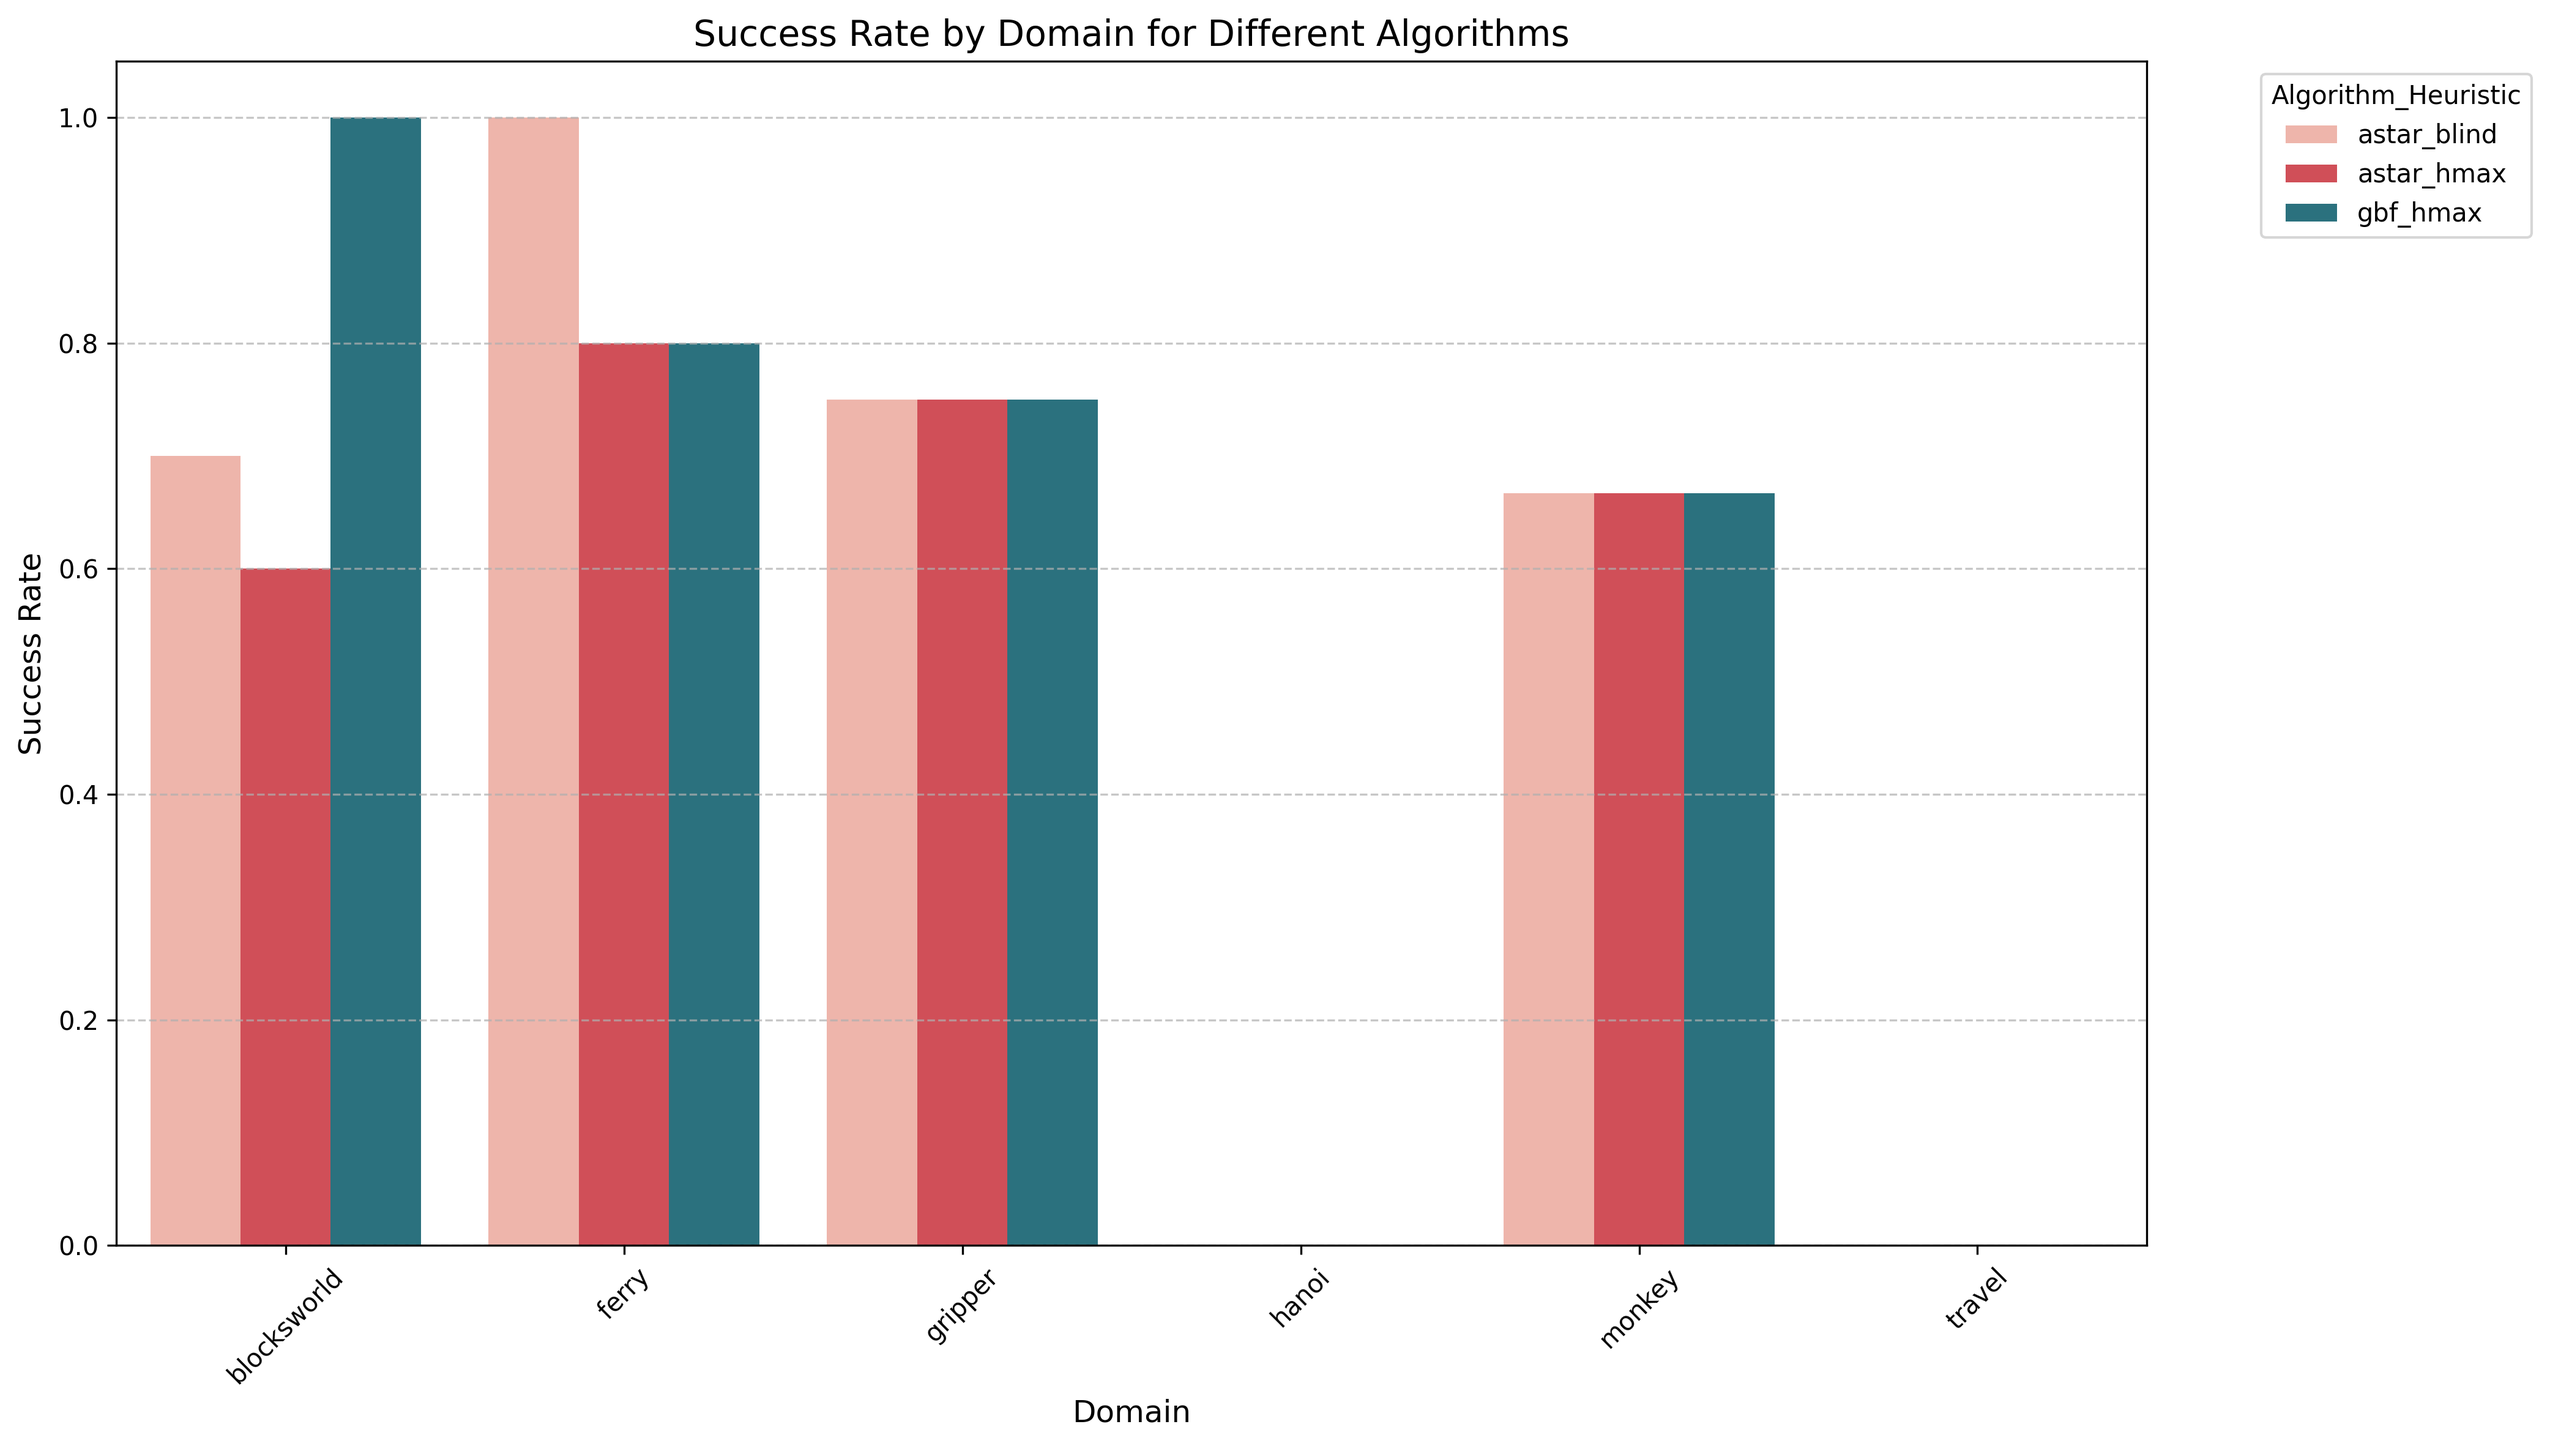
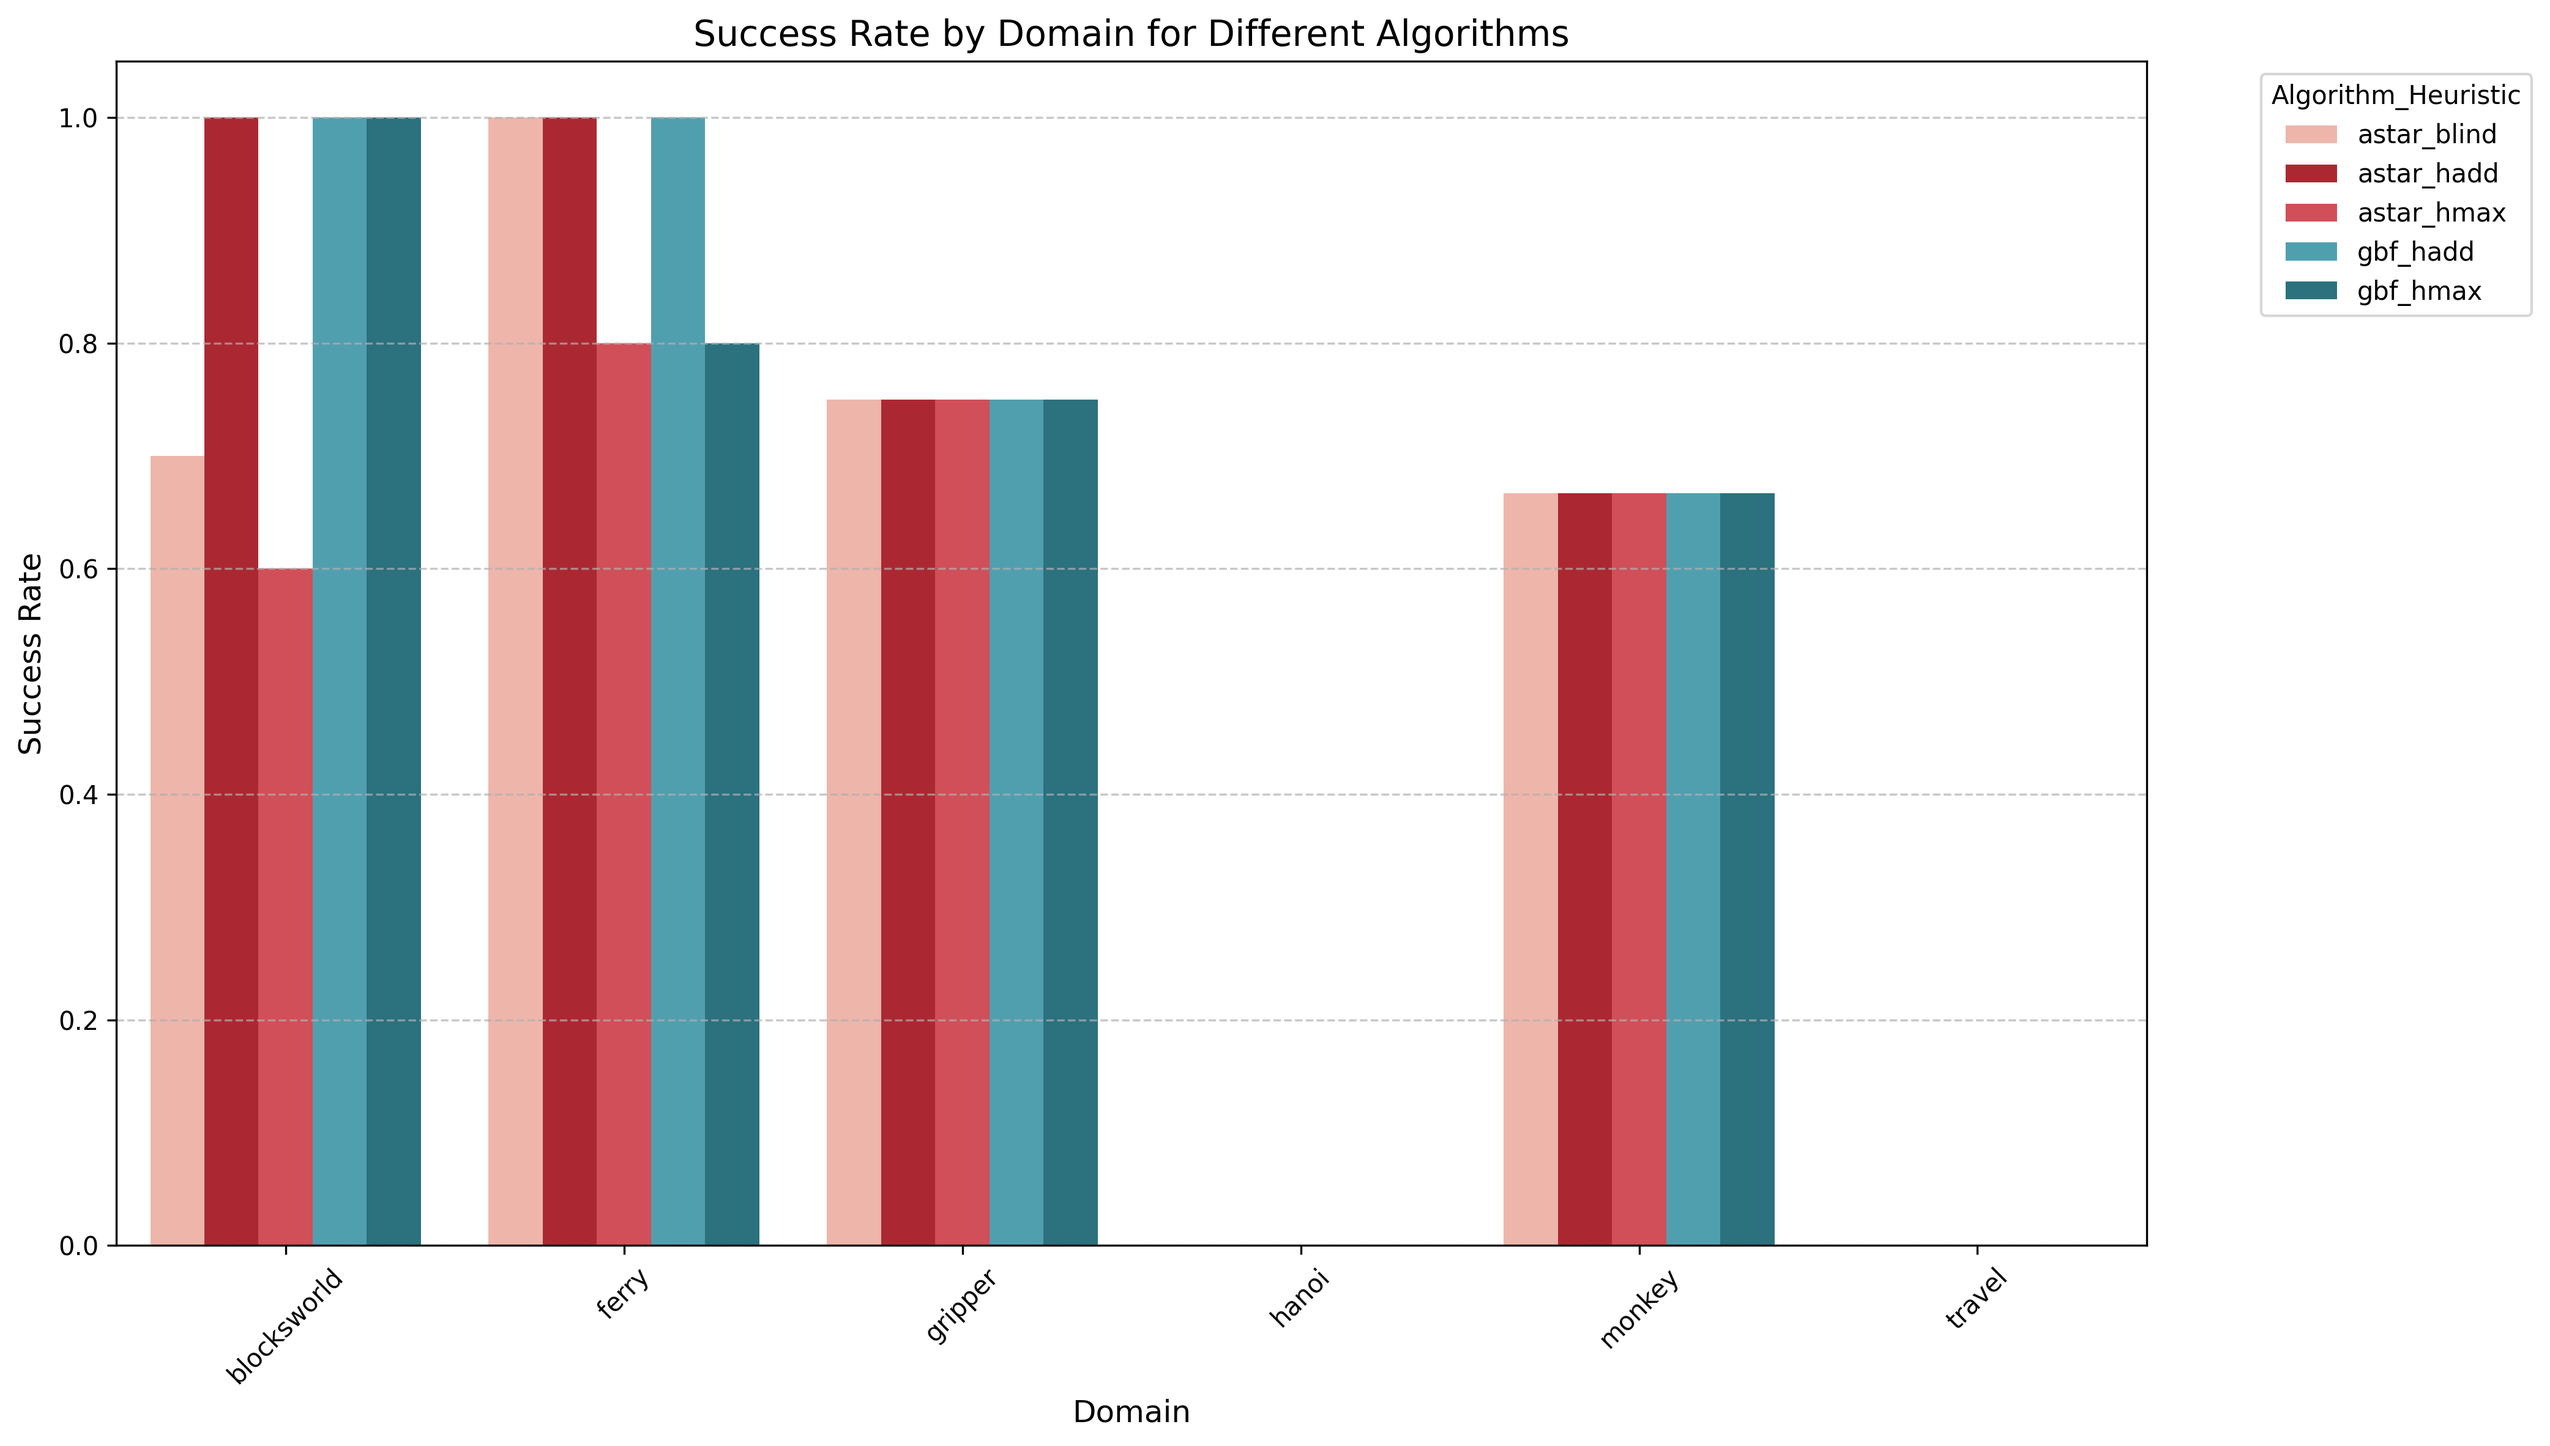
publish

diff --git a/benchmark-visualizer.py b/benchmark-visualizer.py
@@ -156,8 +156,8 @@ def plot_domain_comparison(df, output_dir):
         ('astar', 'hmax'),
         ('gbf', 'hmax'),
         ('astar', 'blind'),
-        ('astar', 'landmark'),
-        ('gbf', 'landmark')
+        ('astar', 'hadd'),
+        ('gbf', 'hadd')
     ]
     
     filtered_data = domain_success[
@@ -176,9 +176,9 @@ def plot_domain_comparison(df, output_dir):
     palette = {
         'astar_hmax': '#E63946',     # red
         'astar_blind': '#F9ADA0',    # light red
-        'astar_landmark': '#C1121F', # dark red
+        'astar_hadd': '#C1121F',     # dark red
         'gbf_hmax': '#1D7A8C',       # teal
-        'gbf_landmark': '#40A9BF'     # light blue
+        'gbf_hadd': '#40A9BF'        # light blue
     }
     
     chart = sns.barplot(
@@ -261,6 +261,159 @@ def plot_runtime_by_domain(df, output_dir):
     
     plt.tight_layout()
     plt.savefig(os.path.join(output_dir, 'runtime_by_domain.png'), dpi=300, bbox_inches='tight')
+    plt.close()
+
+def plot_nodes_by_domain(df, output_dir):
+    """Plot expanded nodes comparison across domains for all algorithm-heuristic combinations"""
+    plt.figure(figsize=(16, 10))
+    
+    # Filter for successful runs only
+    success_df = df[df['success'] == True].copy()
+    success_df['algorithm_heuristic'] = success_df['search'] + '_' + success_df['heuristic']
+    
+    # Group by domain and algorithm_heuristic
+    nodes_by_domain = success_df.groupby(['domain', 'algorithm_heuristic'])['expanded_nodes'].mean().reset_index()
+    
+    # Create a custom color palette for algorithm-heuristic combinations
+    # A* variants in red tones, GBFS variants in blue-green tones
+    unique_combos = nodes_by_domain['algorithm_heuristic'].unique()
+    
+    # Generate color palette
+    colors = {}
+    for combo in unique_combos:
+        if combo.startswith('astar'):
+            # Red tones for A*
+            if 'hmax' in combo:
+                colors[combo] = '#E63946'  # Strong red for A* with hmax
+            elif 'hadd' in combo:
+                colors[combo] = '#F4A582'  # Medium red for A* with hadd
+            elif 'hff' in combo:
+                colors[combo] = '#D6604D'  # Light red for A* with hff
+            else:
+                colors[combo] = '#B2182B'  # Dark red for other A* variants
+        else:  # gbf
+            # Blue-green tones for GBFS
+            if 'hmax' in combo:
+                colors[combo] = '#1D7A8C'  # Strong teal for GBFS with hmax
+            elif 'hadd' in combo:
+                colors[combo] = '#4393C3'  # Medium blue for GBFS with hadd
+            elif 'hff' in combo:
+                colors[combo] = '#2166AC'  # Light blue for GBFS with hff
+            else:
+                colors[combo] = '#053061'  # Dark blue for other GBFS variants
+    
+    # Create the plot
+    ax = sns.barplot(
+        x='domain', 
+        y='expanded_nodes', 
+        hue='algorithm_heuristic', 
+        data=nodes_by_domain, 
+        palette=colors
+    )
+    
+    plt.title('Average Expanded Nodes by Domain and Algorithm-Heuristic Combination', fontsize=16)
+    plt.ylabel('Expanded Nodes', fontsize=14)
+    plt.xlabel('Domain', fontsize=14)
+    plt.xticks(rotation=45)
+    plt.grid(axis='y', linestyle='--', alpha=0.7)
+    plt.legend(title='Algorithm_Heuristic', bbox_to_anchor=(1.05, 1), loc='upper left')
+    
+    # Add text labels on top of each bar
+    for container in ax.containers:
+        ax.bar_label(container, fmt='%.0f', fontsize=8)
+    
+    plt.tight_layout()
+    plt.savefig(os.path.join(output_dir, 'nodes_by_domain.png'), dpi=300, bbox_inches='tight')
+    plt.close()
+    
+    # Also create a log scale version for better comparison
+    plt.figure(figsize=(16, 10))
+    ax = sns.barplot(
+        x='domain', 
+        y='expanded_nodes', 
+        hue='algorithm_heuristic', 
+        data=nodes_by_domain, 
+        palette=colors
+    )
+    
+    plt.title('Average Expanded Nodes by Domain and Algorithm-Heuristic Combination (Log Scale)', fontsize=16)
+    plt.ylabel('Expanded Nodes (log scale)', fontsize=14)
+    plt.xlabel('Domain', fontsize=14)
+    plt.yscale('log')
+    plt.xticks(rotation=45)
+    plt.grid(axis='y', linestyle='--', alpha=0.7)
+    plt.legend(title='Algorithm_Heuristic', bbox_to_anchor=(1.05, 1), loc='upper left')
+    
+    # Add text labels on top of each bar (for log scale)
+    for container in ax.containers:
+        labels = [f'{int(v)}' if not np.isnan(v) else '' for v in container.datavalues]
+        ax.bar_label(container, labels=labels, fontsize=8)
+    
+    plt.tight_layout()
+    plt.savefig(os.path.join(output_dir, 'nodes_by_domain_log.png'), dpi=300, bbox_inches='tight')
+    plt.close()
+
+def plot_planlength_by_domain(df, output_dir):
+    """Plot plan length comparison across domains for all algorithm-heuristic combinations"""
+    plt.figure(figsize=(16, 10))
+    
+    # Filter for successful runs only
+    success_df = df[df['success'] == True].copy()
+    success_df['algorithm_heuristic'] = success_df['search'] + '_' + success_df['heuristic']
+    
+    # Group by domain and algorithm_heuristic
+    length_by_domain = success_df.groupby(['domain', 'algorithm_heuristic'])['plan_length'].mean().reset_index()
+    
+    # Create a custom color palette for algorithm-heuristic combinations
+    # A* variants in red tones, GBFS variants in blue-green tones
+    unique_combos = length_by_domain['algorithm_heuristic'].unique()
+    
+    # Generate color palette
+    colors = {}
+    for combo in unique_combos:
+        if combo.startswith('astar'):
+            # Red tones for A*
+            if 'hmax' in combo:
+                colors[combo] = '#E63946'  # Strong red for A* with hmax
+            elif 'hadd' in combo:
+                colors[combo] = '#F4A582'  # Medium red for A* with hadd
+            elif 'hff' in combo:
+                colors[combo] = '#D6604D'  # Light red for A* with hff
+            else:
+                colors[combo] = '#B2182B'  # Dark red for other A* variants
+        else:  # gbf
+            # Blue-green tones for GBFS
+            if 'hmax' in combo:
+                colors[combo] = '#1D7A8C'  # Strong teal for GBFS with hmax
+            elif 'hadd' in combo:
+                colors[combo] = '#4393C3'  # Medium blue for GBFS with hadd
+            elif 'hff' in combo:
+                colors[combo] = '#2166AC'  # Light blue for GBFS with hff
+            else:
+                colors[combo] = '#053061'  # Dark blue for other GBFS variants
+    
+    # Create the plot
+    ax = sns.barplot(
+        x='domain', 
+        y='plan_length', 
+        hue='algorithm_heuristic', 
+        data=length_by_domain, 
+        palette=colors
+    )
+    
+    plt.title('Average Plan Length by Domain and Algorithm-Heuristic Combination', fontsize=16)
+    plt.ylabel('Plan Length (steps)', fontsize=14)
+    plt.xlabel('Domain', fontsize=14)
+    plt.xticks(rotation=45)
+    plt.grid(axis='y', linestyle='--', alpha=0.7)
+    plt.legend(title='Algorithm_Heuristic', bbox_to_anchor=(1.05, 1), loc='upper left')
+    
+    # Add text labels on top of each bar
+    for container in ax.containers:
+        ax.bar_label(container, fmt='%.1f', fontsize=8)
+    
+    plt.tight_layout()
+    plt.savefig(os.path.join(output_dir, 'planlength_by_domain.png'), dpi=300, bbox_inches='tight')
     plt.close()
 
 def generate_summary_report(df, output_path):
@@ -386,6 +539,8 @@ def main():
     plot_expanded_nodes_comparison(df, args.output_dir)
     plot_domain_comparison(df, args.output_dir)
     plot_runtime_by_domain(df, args.output_dir)
+    plot_nodes_by_domain(df, args.output_dir)
+    plot_planlength_by_domain(df, args.output_dir)
     
     # Generate report
     report_path = os.path.join(args.output_dir, "benchmark_report.md")
